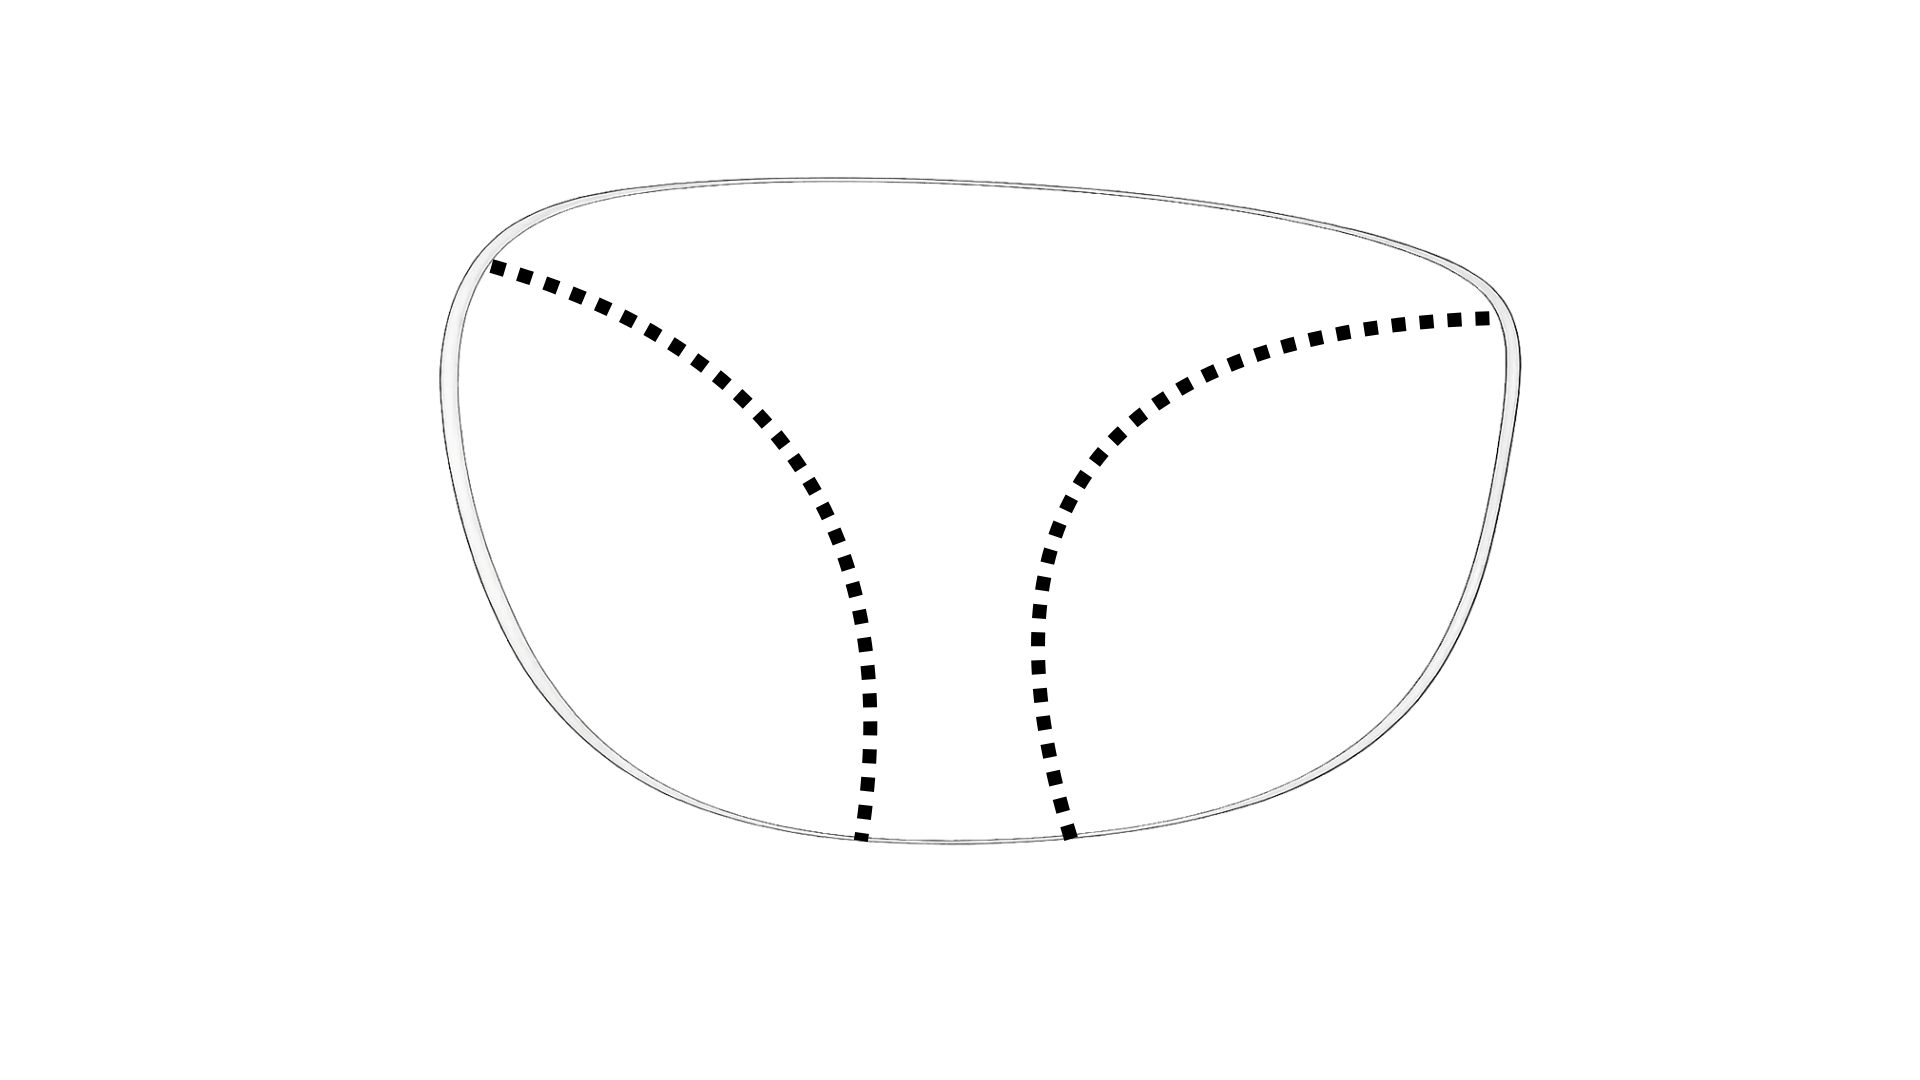
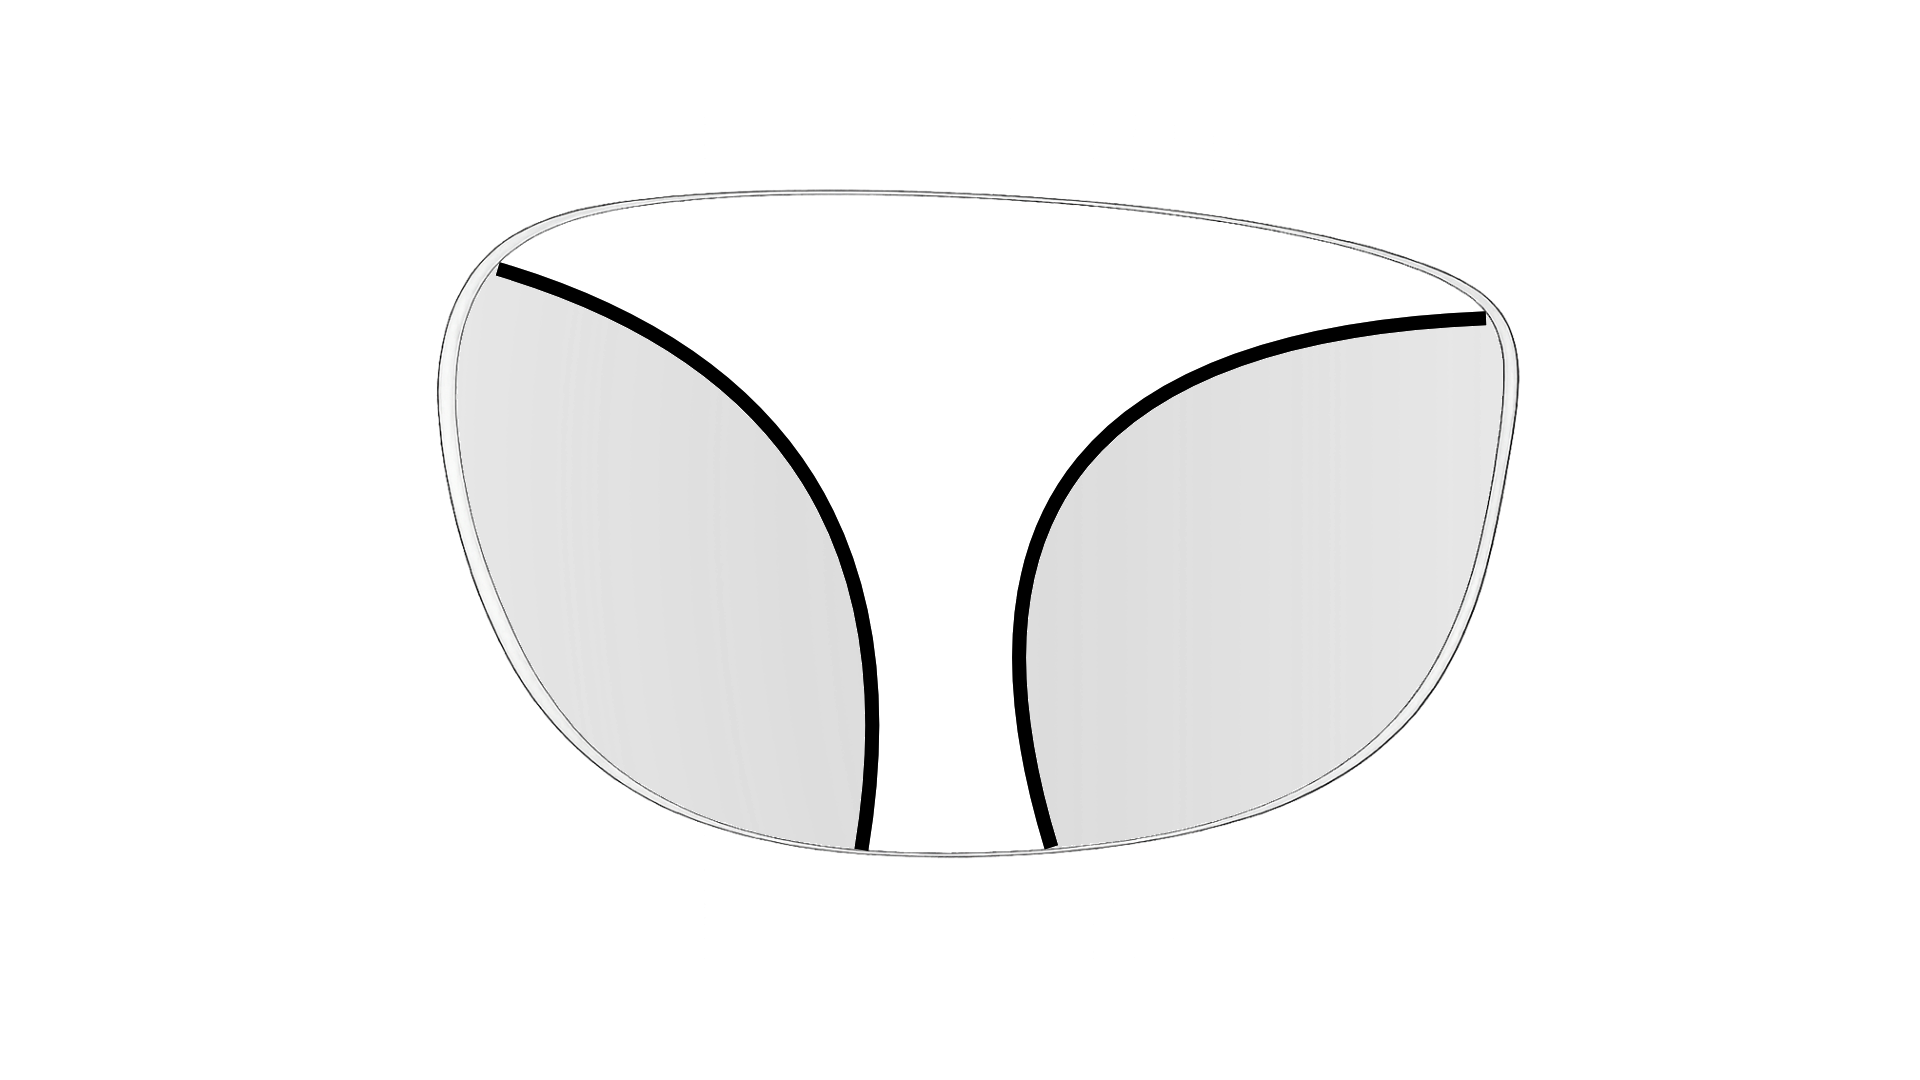
Tabela Digital: remove efeito espelho (so contorno preto) + novo PNG LIBERTY

Changed region(s): [[0.2188, 0.1528, 0.8125, 0.7944]]

diff --git a/src/pages/vision/VendaIndicativa.tsx b/src/pages/vision/VendaIndicativa.tsx
@@ -480,134 +480,19 @@ function Dock({ navigate, onOS }: { navigate: ReturnType<typeof useNavigate>; on
   );
 }
 
-// ─── Máscara das ABERRAÇÕES (os dois lóbulos laterais) para o efeito espelho ────
-// O PNG tem só as linhas (contorno + pontilhados do corredor). Passos:
-//  1) dilata as linhas p/ FECHAR os pontilhados (viram paredes contínuas);
-//  2) "full" = flood do centro cruzando os pontilhados → interior inteiro da lente;
-//  3) "central" = flood do centro limitado pelas paredes → faixa central (distância+corredor+leitura);
-//  4) aberrações = full − central = exatamente os 2 lóbulos (fora do corredor).
-const frostMaskCache = new Map<string, string>();
-
-function useFrostMask(campoImg: string): string | null {
-  const [mask, setMask] = useState<string | null>(() => frostMaskCache.get(campoImg) ?? null);
-  useEffect(() => {
-    const cached = frostMaskCache.get(campoImg);
-    if (cached) { setMask(cached); return; }
-    let cancelled = false;
-    const img = new Image();
-    img.onload = () => {
-      try {
-        const scale = Math.min(1, 640 / Math.max(img.naturalWidth, img.naturalHeight));
-        const cw = Math.max(1, Math.round(img.naturalWidth * scale));
-        const ch = Math.max(1, Math.round(img.naturalHeight * scale));
-        const cnv = document.createElement('canvas'); cnv.width = cw; cnv.height = ch;
-        const ctx = cnv.getContext('2d')!;
-        ctx.drawImage(img, 0, 0, cw, ch);
-        const a = ctx.getImageData(0, 0, cw, ch).data;
-        const N = cw * ch;
-        const idx = (x: number, y: number) => y * cw + x;
-        const line = new Uint8Array(N);
-        for (let i = 0; i < N; i++) line[i] = a[i * 4 + 3] > 60 ? 1 : 0;
-        const flood = (seed: number, walls: Uint8Array) => {
-          const m = new Uint8Array(N); const st = [seed];
-          while (st.length) {
-            const p = st.pop()!;
-            if (p < 0 || p >= N || m[p] || walls[p]) continue;
-            m[p] = 1; const x = p % cw;
-            if (x > 0) st.push(p - 1);
-            if (x < cw - 1) st.push(p + 1);
-            st.push(p - cw); st.push(p + cw);
-          }
-          return m;
-        };
-        const dilate = (src: Uint8Array, r: number) => {
-          const d = new Uint8Array(N);
-          for (let y = 0; y < ch; y++) for (let x = 0; x < cw; x++) {
-            if (!src[idx(x, y)]) continue;
-            for (let dy = -r; dy <= r; dy++) { const yy = y + dy; if (yy < 0 || yy >= ch) continue;
-              for (let dx = -r; dx <= r; dx++) { const xx = x + dx; if (xx < 0 || xx >= cw) continue; d[idx(xx, yy)] = 1; } }
-          }
-          return d;
-        };
-        const center = idx(cw >> 1, ch >> 1);
-        const full = flood(center, line);                       // interior inteiro
-        const ext = new Uint8Array(N);
-        for (let i = 0; i < N; i++) ext[i] = (!full[i] && !line[i]) ? 1 : 0; // fora da lente
-        // contorno = componente de linha que encosta no exterior (grosso incluso); pontilhados = resto
-        const contour = new Uint8Array(N); const cst: number[] = [];
-        for (let y = 0; y < ch; y++) for (let x = 0; x < cw; x++) {
-          const i = idx(x, y); if (!line[i]) continue; let adj = false;
-          for (let dy = -1; dy <= 1 && !adj; dy++) for (let dx = -1; dx <= 1; dx++) {
-            const xx = x + dx, yy = y + dy; if (xx < 0 || yy < 0 || xx >= cw || yy >= ch) continue;
-            if (ext[idx(xx, yy)]) { adj = true; break; }
-          }
-          if (adj) { contour[i] = 1; cst.push(i); }
-        }
-        while (cst.length) {
-          const p = cst.pop()!; const x = p % cw, y = (p - x) / cw;
-          for (let dy = -1; dy <= 1; dy++) for (let dx = -1; dx <= 1; dx++) {
-            const xx = x + dx, yy = y + dy; if (xx < 0 || yy < 0 || xx >= cw || yy >= ch) continue;
-            const q = idx(xx, yy); if (line[q] && !contour[q]) { contour[q] = 1; cst.push(q); }
-          }
-        }
-        const dotted = new Uint8Array(N);
-        for (let i = 0; i < N; i++) dotted[i] = (line[i] && !contour[i]) ? 1 : 0;
-        const bnd = dilate(dotted, 3);                          // fecha os pontilhados (paredes do corredor)
-        const wallsC = new Uint8Array(N);
-        for (let i = 0; i < N; i++) wallsC[i] = (bnd[i] || line[i]) ? 1 : 0;
-        const central = flood(center, wallsC);                  // faixa central (chega ao contorno no topo)
-        const lobe = new Uint8Array(N);
-        for (let i = 0; i < N; i++) lobe[i] = (full[i] && !central[i] && !line[i]) ? 1 : 0;
-        const lobeG = dilate(lobe, 2);                          // cresce até o contorno (preenche a beirada)
-        const out = ctx.createImageData(cw, ch);
-        for (let i = 0; i < N; i++) {
-          const on = lobeG[i] && (full[i] || line[i]);          // = os 2 lóbulos, presos ao interior
-          out.data[i * 4] = 255; out.data[i * 4 + 1] = 255; out.data[i * 4 + 2] = 255;
-          out.data[i * 4 + 3] = on ? 255 : 0;
-        }
-        ctx.putImageData(out, 0, 0);
-        // suaviza a borda dos lóbulos
-        const c2 = document.createElement('canvas'); c2.width = cw; c2.height = ch;
-        const x2 = c2.getContext('2d')!; x2.filter = 'blur(1.2px)'; x2.drawImage(cnv, 0, 0);
-        const url = c2.toDataURL();
-        frostMaskCache.set(campoImg, url);
-        if (!cancelled) setMask(url);
-      } catch { /* CORS/decoding — segue só com as linhas */ }
-    };
-    img.src = cvSrc(campoImg);
-    return () => { cancelled = true; };
-  }, [campoImg]);
-  return mask;
-}
-
-// Lente sobre a paisagem: corredor central limpo + aberrações com efeito espelho (fosco).
+// Lente sobre a paisagem: apenas o contorno + zonas (campo de visão) em preto.
 function LenteCampo({ campoImg, box }: { campoImg: string; box?: React.CSSProperties }) {
-  const frost = useFrostMask(campoImg);
   const baseBox: React.CSSProperties = { position: 'absolute', top: '1%', left: 128, right: '1%', bottom: '1%', pointerEvents: 'none', ...box };
-  const maskCommon = (u: string): React.CSSProperties => ({
-    WebkitMaskImage: `url("${u}")`, maskImage: `url("${u}")`,
-    WebkitMaskRepeat: 'no-repeat', maskRepeat: 'no-repeat',
-    WebkitMaskPosition: 'center', maskPosition: 'center',
-    WebkitMaskSize: 'auto 132%', maskSize: 'auto 132%', // lente maior (recorta a margem transparente do PNG)
-  });
   return (
-    <>
-      {/* Aberrações: efeito espelho / fosco só na periferia (corredor central limpo) */}
-      {frost && (
-        <div style={{
-          ...baseBox, ...maskCommon(frost),
-          background: 'linear-gradient(120deg, rgba(255,255,255,0.6), rgba(226,236,248,0.48) 45%, rgba(255,255,255,0.6))',
-          backdropFilter: 'blur(4px) brightness(1.15) saturate(1.05)',
-          WebkitBackdropFilter: 'blur(4px) brightness(1.15) saturate(1.05)',
-        }} />
-      )}
-      {/* Contorno + zonas em PRETO */}
-      <div style={{
-        ...baseBox, ...maskCommon(cvSrc(campoImg)),
-        background: '#141416',
-        filter: 'drop-shadow(0 8px 20px rgba(0,0,0,0.42))',
-      }} />
-    </>
+    <div style={{
+      ...baseBox,
+      WebkitMaskImage: `url("${cvSrc(campoImg)}")`, maskImage: `url("${cvSrc(campoImg)}")`,
+      WebkitMaskRepeat: 'no-repeat', maskRepeat: 'no-repeat',
+      WebkitMaskPosition: 'center', maskPosition: 'center',
+      WebkitMaskSize: 'auto 132%', maskSize: 'auto 132%', // lente maior (recorta a margem transparente do PNG)
+      background: '#141416',
+      filter: 'drop-shadow(0 8px 20px rgba(0,0,0,0.42))',
+    }} />
   );
 }
 